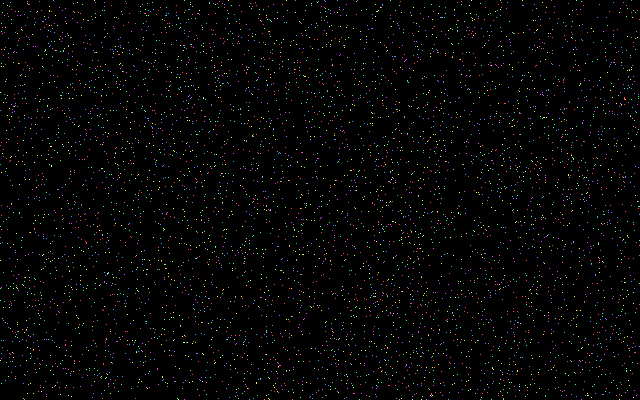
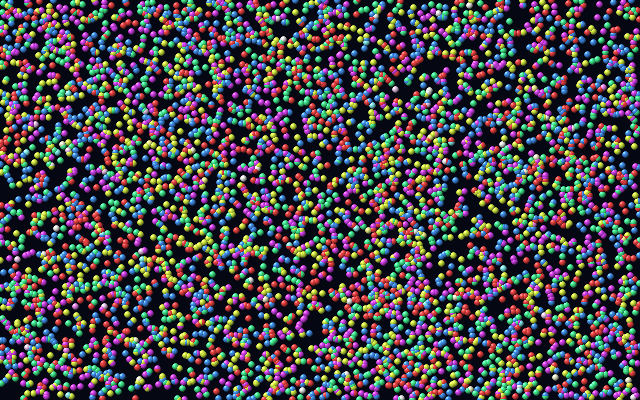
feat(particle-life): draw particles as shaded spheres, not square blocks
The particles were squares because the renderer dilated each occupied cell
by copying its colour outward with no falloff: a 3x3 block per particle.

Replace that with a glyph pass that treats each particle as a sphere. The
distance from a fragment to the particle's centre gives both a shading
normal and a height above the screen plane, so the dot is lit (key light
upper-left, ambient floor, a small specular) and antialiased at the rim.
The nearest surface wins the pixel rather than the contributions summing:
these read as opaque bodies, so overlaps should occlude, and summing washes
dense clusters out to white when species hue is the entire signal.

Bloom on by default at 0.35, which carries colour just past each rim so a
cluster reads as one membrane while the bodies stay distinct.

pointSize 4 -> 7. It is purely presentational (the kernel declares it but
never reads it) and 4 was chosen for the flat square; it is too few pixels
across to show shading. Changing it in the kernel rather than overriding in
simView keeps the sim view and the thumbnail generator from drifting.

This is a net win on frame time, not a cost: the old dilation swept a fixed
17x17 window on every empty pixel, while the glyph bounds its search by the
actual radius. Measured 21 -> 33 fps at the default.

The dilation was only reachable for boids and particle-life, and both now
take glyph paths, so u_dotRadius is dead and goes. That leaves the display
[…]

diff --git a/src/app/webglRenderer.ts b/src/app/webglRenderer.ts
@@ -43,13 +43,14 @@ uniform float u_contrast;
 uniform bool u_paletteCycleReverse;
 uniform bool u_paletteCyclic;
 uniform int u_steps;
-uniform int u_dotRadius;
 uniform bool u_smoothSampling;
 uniform bool u_circularPhase;
 uniform float u_palettePhase;
 uniform bool u_boidsGlyph;
 uniform float u_boidsGlyphRadius;
 uniform vec2 u_boidsMeanDir;
+uniform bool u_particleGlyph;
+uniform float u_particleGlyphRadius;
 uniform bool u_trailMode;
 uniform bool u_streamerMode;
 uniform float u_streamerWidth;
@@ -58,6 +59,13 @@ in vec2 v_uv;
 out vec4 outColor;
 
 const float TAU = 6.283185307179586;
+
+/** Particle-mode sphere lighting: key light from the upper left, toward the eye. */
+const vec3 PARTICLE_LIGHT = normalize(vec3(-0.42, 0.46, 0.78));
+/** Fraction of a particle's colour that survives on its unlit side. */
+const float PARTICLE_AMBIENT = 0.3;
+/** Disc fraction over which the rim fades out, antialiasing the silhouette. */
+const float PARTICLE_RIM = 0.86;
 
 float clamp01(float value) {
   return clamp(value, 0.0, 1.0);
@@ -368,6 +376,59 @@ void main() {
     return;
   }
 
+  if (u_particleGlyph) {
+    vec3 bg = vec3(5.0, 8.0, 18.0) / 255.0;
+    float glyphRadius = clamp(u_particleGlyphRadius, 0.5, 8.0);
+    // Bound the search by the actual radius rather than sweeping a fixed window
+    // and discarding: at the default radius of 2 that is 25 taps per fragment
+    // instead of 289, and this shader runs over every pixel of the display.
+    int radius = int(ceil(glyphRadius));
+    vec2 fragPos = v_uv * u_sourceSize - vec2(0.5);
+    vec3 lit = vec3(0.0);
+    float specular = 0.0;
+    float coverage = 0.0;
+    float nearestZ = -1.0;
+
+    for (int y = -radius; y <= radius; y += 1) {
+      for (int x = -radius; x <= radius; x += 1) {
+        ivec2 sampleCoord = clamp(coord + ivec2(x, y), ivec2(0), size - ivec2(1));
+        vec4 raw = readChannels(sampleCoord);
+        if (signalAt(raw) <= 0.02) continue;
+
+        vec2 local = fragPos - vec2(sampleCoord);
+        float d = length(local) / glyphRadius;
+        if (d >= 1.0) continue;
+        float alpha = 1.0 - smoothstep(PARTICLE_RIM, 1.0, d);
+        if (alpha <= 0.0) continue;
+
+        // Treat each particle as a sphere lit from the upper left: the height
+        // of its surface above the screen plane is sqrt(1 - d^2), which gives
+        // both the shading normal and a depth to resolve overlaps by.
+        float z = sqrt(max(0.0, 1.0 - d * d));
+        if (z > nearestZ) {
+          nearestZ = z;
+          vec3 normal = vec3(local / glyphRadius, z);
+          float lambert = clamp(dot(normal, PARTICLE_LIGHT), 0.0, 1.0);
+          lit = colourFromRaw(raw) * (PARTICLE_AMBIENT + (1.0 - PARTICLE_AMBIENT) * lambert);
+          specular = pow(lambert, 26.0) * 0.5;
+        }
+        coverage = max(coverage, alpha);
+      }
+    }
+
+    // Nearest surface wins the pixel rather than the contributions summing:
+    // these are opaque bodies, so overlapping particles should occlude each
+    // other. Summing also washes dense clusters out to white, and species hue
+    // is the whole signal in this model.
+    vec3 dotColour = lit + vec3(specular);
+    if (u_trailMode) {
+      outColor = vec4(dotColour, coverage);
+    } else {
+      outColor = vec4(mix(bg, dotColour, coverage), 1.0);
+    }
+    return;
+  }
+
   if (u_streamerMode) {
     vec2 texel = 1.0 / u_sourceSize;
     float radius = clamp(u_streamerWidth, 0.75, 4.0);
@@ -410,22 +471,6 @@ void main() {
     colour += ember * hotCore * 0.22;
     outColor = vec4(colour, 1.0);
     return;
-  }
-
-  if (u_dotRadius > 0) {
-    vec4 raw = readChannels(coord);
-    if (signalAt(raw) <= 0.02) {
-      for (int y = -8; y <= 8; y += 1) {
-        for (int x = -8; x <= 8; x += 1) {
-          if (abs(x) > u_dotRadius || abs(y) > u_dotRadius) continue;
-          ivec2 sampleCoord = clamp(coord + ivec2(x, y), ivec2(0), size - ivec2(1));
-          if (signalAt(readChannels(sampleCoord)) > 0.02) {
-            outColor = vec4(colourAt(sampleCoord), 1.0);
-            return;
-          }
-        }
-      }
-    }
   }
 
   vec4 raw = u_smoothSampling
@@ -732,13 +777,14 @@ interface UniformLocations {
   paletteCycleReverse: WebGLUniformLocation;
   paletteCyclic: WebGLUniformLocation;
   steps: WebGLUniformLocation;
-  dotRadius: WebGLUniformLocation;
   smoothSampling: WebGLUniformLocation;
   circularPhase: WebGLUniformLocation;
   palettePhase: WebGLUniformLocation;
   boidsGlyph: WebGLUniformLocation;
   boidsGlyphRadius: WebGLUniformLocation;
   boidsMeanDir: WebGLUniformLocation;
+  particleGlyph: WebGLUniformLocation;
+  particleGlyphRadius: WebGLUniformLocation;
   trailMode: WebGLUniformLocation;
   streamerMode: WebGLUniformLocation;
   streamerWidth: WebGLUniformLocation;
@@ -1905,10 +1951,6 @@ export class WebGLRendererBackend implements RendererBackend {
         this.gl.getUniformLocation(this.program, "u_steps"),
         "u_steps uniform",
       ),
-      dotRadius: mustCreate(
-        this.gl.getUniformLocation(this.program, "u_dotRadius"),
-        "u_dotRadius uniform",
-      ),
       smoothSampling: mustCreate(
         this.gl.getUniformLocation(this.program, "u_smoothSampling"),
         "u_smoothSampling uniform",
@@ -1928,6 +1970,14 @@ export class WebGLRendererBackend implements RendererBackend {
       boidsGlyphRadius: mustCreate(
         this.gl.getUniformLocation(this.program, "u_boidsGlyphRadius"),
         "u_boidsGlyphRadius uniform",
+      ),
+      particleGlyph: mustCreate(
+        this.gl.getUniformLocation(this.program, "u_particleGlyph"),
+        "u_particleGlyph uniform",
+      ),
+      particleGlyphRadius: mustCreate(
+        this.gl.getUniformLocation(this.program, "u_particleGlyphRadius"),
+        "u_particleGlyphRadius uniform",
       ),
       boidsMeanDir: mustCreate(
         this.gl.getUniformLocation(this.program, "u_boidsMeanDir"),
@@ -2103,10 +2153,6 @@ export class WebGLRendererBackend implements RendererBackend {
     );
     gl.uniform1i(this.uniforms.paletteCyclic, isCyclic(colourOptions.preset) ? 1 : 0);
     gl.uniform1i(this.uniforms.steps, Math.max(0, Math.floor(colourOptions.steps || 0)));
-    gl.uniform1i(
-      this.uniforms.dotRadius,
-      mode === "particle" ? Math.floor(displayOptions.dotSize / 2) : 0,
-    );
     gl.uniform1i(this.uniforms.smoothSampling, shouldSmoothSample(mode) ? 1 : 0);
     gl.uniform1i(this.uniforms.circularPhase, isCircularPhaseState(kernel) ? 1 : 0);
     gl.uniform1f(
@@ -2117,6 +2163,11 @@ export class WebGLRendererBackend implements RendererBackend {
     );
     gl.uniform1i(this.uniforms.boidsGlyph, isBoidsState(kernel) ? 1 : 0);
     gl.uniform1f(this.uniforms.boidsGlyphRadius, boidsGlyphRadius(params, displayOptions));
+    gl.uniform1i(this.uniforms.particleGlyph, isParticleLifeState(kernel) ? 1 : 0);
+    gl.uniform1f(
+      this.uniforms.particleGlyphRadius,
+      particleGlyphRadius(params, displayOptions),
+    );
     gl.uniform1i(this.uniforms.trailMode, trailFadeFor(mode, displayOptions) > 0 ? 1 : 0);
     gl.uniform1i(this.uniforms.streamerMode, isAttractorState(kernel) ? 1 : 0);
     gl.uniform1f(this.uniforms.streamerWidth, numericParam(params, "ribbonWidth", 2.1));
@@ -2239,6 +2290,16 @@ function isBoidsState(kernel: SimKernel): boolean {
   );
 }
 
+function isParticleLifeState(kernel: SimKernel): boolean {
+  return (
+    kernel.name === "Particle Life" &&
+    kernel.channelCount === 3 &&
+    kernel.channelLabels[0] === "Red" &&
+    kernel.channelLabels[1] === "Green" &&
+    kernel.channelLabels[2] === "Blue"
+  );
+}
+
 function isAttractorState(kernel: SimKernel): boolean {
   return kernel.name === "Strange Attractor" && kernel.channelLabels[0] === "Density";
 }
@@ -2317,6 +2378,24 @@ function boidsGlyphRadius(
       ? rawSize
       : displayOptions.dotSize;
   return Math.max(2, Math.min(8, size / 2));
+}
+
+/**
+ * Sphere radius in grid cells for particle-life. The kernel's own pointSize
+ * wins when set, so the sim's param and the display slider cannot disagree.
+ * The floor is 1.5: below that the disc is too few pixels across to shade, and
+ * the dot degenerates back into the square block this glyph replaced.
+ */
+function particleGlyphRadius(
+  params: Record<string, number | boolean | string>,
+  displayOptions: { dotSize: number },
+): number {
+  const rawSize = params.pointSize;
+  const size =
+    typeof rawSize === "number" && Number.isFinite(rawSize)
+      ? rawSize
+      : displayOptions.dotSize;
+  return Math.max(1.5, Math.min(8, size / 2));
 }
 
 function palettePhase(

diff --git a/src/app/controls.ts b/src/app/controls.ts
@@ -73,6 +73,13 @@ export interface ControlsOptions {
   showResolutionControl?: boolean;
   /** Show the particle-trail fade slider (particle-mode sims only). */
   showTrailControl?: boolean;
+  /**
+   * Show the display "Point size (px)" slider. Off for sims whose kernel
+   * declares its own pointSize param: that one wins in the renderer, so
+   * showing both puts two identically-labelled sliders in the panel, only one
+   * of which does anything.
+   */
+  showDotSizeControl?: boolean;
   /** Show the "Auto-cycle runs" toggle (sims whose kernel reports isComplete()). */
   showAutoCycleControl?: boolean;
   /** Initial auto-cycle state (persisted or per-sim default). */
@@ -104,6 +111,7 @@ export class ControlsPanel {
   private readonly defaultResolution: ResolutionPreset;
   private readonly showResolutionControl: boolean;
   private readonly showTrailControl: boolean;
+  private readonly showDotSizeControl: boolean;
   private readonly showAutoCycleControl: boolean;
   private readonly defaultAutoCycle: boolean;
   private autoCycle: boolean;
@@ -158,6 +166,7 @@ export class ControlsPanel {
     this.defaultResolution = options.defaultResolution;
     this.showResolutionControl = options.showResolutionControl ?? true;
     this.showTrailControl = options.showTrailControl ?? false;
+    this.showDotSizeControl = options.showDotSizeControl ?? true;
     this.showAutoCycleControl = options.showAutoCycleControl ?? false;
     this.defaultAutoCycle = options.defaultAutoCycle ?? false;
     this.autoCycle = options.initialAutoCycle ?? this.defaultAutoCycle;
@@ -632,18 +641,20 @@ export class ControlsPanel {
         this.setColourOptions({ ...this.colourOptions, invert });
       }),
     );
-    section.appendChild(
-      this.buildColourRangeControl(
-        "Point size (px)",
-        this.displayOptions.dotSize,
-        1,
-        6,
-        1,
-        (dotSize) => {
-          this.setDisplayOptions({ ...this.displayOptions, dotSize });
-        },
-      ),
-    );
+    if (this.showDotSizeControl) {
+      section.appendChild(
+        this.buildColourRangeControl(
+          "Point size (px)",
+          this.displayOptions.dotSize,
+          1,
+          6,
+          1,
+          (dotSize) => {
+            this.setDisplayOptions({ ...this.displayOptions, dotSize });
+          },
+        ),
+      );
+    }
     if (this.showTrailControl) {
       section.appendChild(
         this.buildColourRangeControl(

diff --git a/src/app/simView.ts b/src/app/simView.ts
@@ -218,6 +218,7 @@ export async function renderSimView(
     defaultResolution,
     showResolutionControl: !fractal,
     showTrailControl: renderMode === "particle",
+    showDotSizeControl: !kernel.paramSchema.some((p) => p.key === "pointSize"),
     showAutoCycleControl: autoCycleSupported,
     initialAutoCycle,
     defaultAutoCycle,
@@ -749,7 +750,10 @@ function defaultDisplayOptionsFor(slug: string): DisplayOptions {
     return { dotSize: 2, trailFade: 0.93, bloom: 0.3 };
   }
   if (slug === "particle-life") {
-    return { dotSize: 2, trailFade: 0, bloom: 0 };
+    // Bloom carries the species colour a little past each sphere's rim, so
+    // clusters read as one glowing membrane while the bodies stay distinct.
+    // dotSize does not reach the glyph: the kernel's own pointSize param wins.
+    return { dotSize: 2, trailFade: 0, bloom: 0.35 };
   }
   if (slug === "lorenz-attractor") {
     return { dotSize: 1, trailFade: 0, bloom: 0.4 };

diff --git a/src/sims/particle-life/kernel.ts b/src/sims/particle-life/kernel.ts
@@ -30,7 +30,12 @@ const DEFAULT_RMIN = 12;
 const DEFAULT_FORCE_SCALE = 55;
 const DEFAULT_FRICTION = 0.55;
 const DEFAULT_MATRIX_BIAS = 0;
-const DEFAULT_POINT_SIZE = 4;
+/**
+ * Sphere diameter in cells. Purely presentational: the kernel declares it for
+ * the panel but never reads it, and the renderer draws the glyph from it. 4 was
+ * the flat-square default and is too few pixels across to show the shading.
+ */
+const DEFAULT_POINT_SIZE = 7;
 
 const MAX_PARTICLE_COUNT = 20000;
 const MIN_SPECIES = 2;
